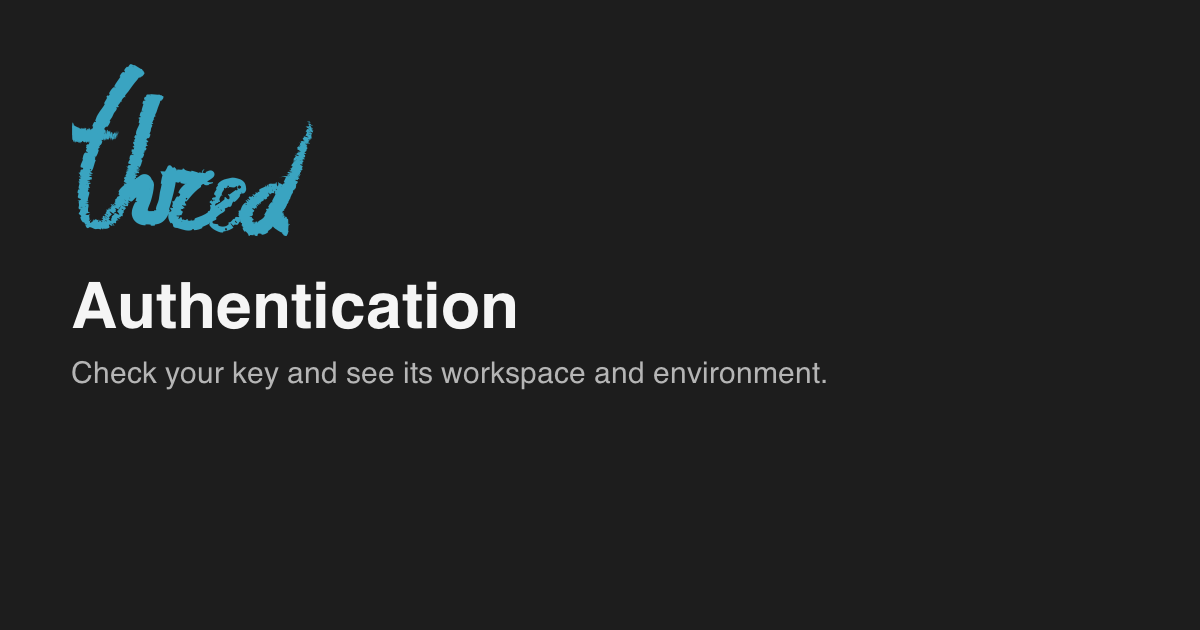
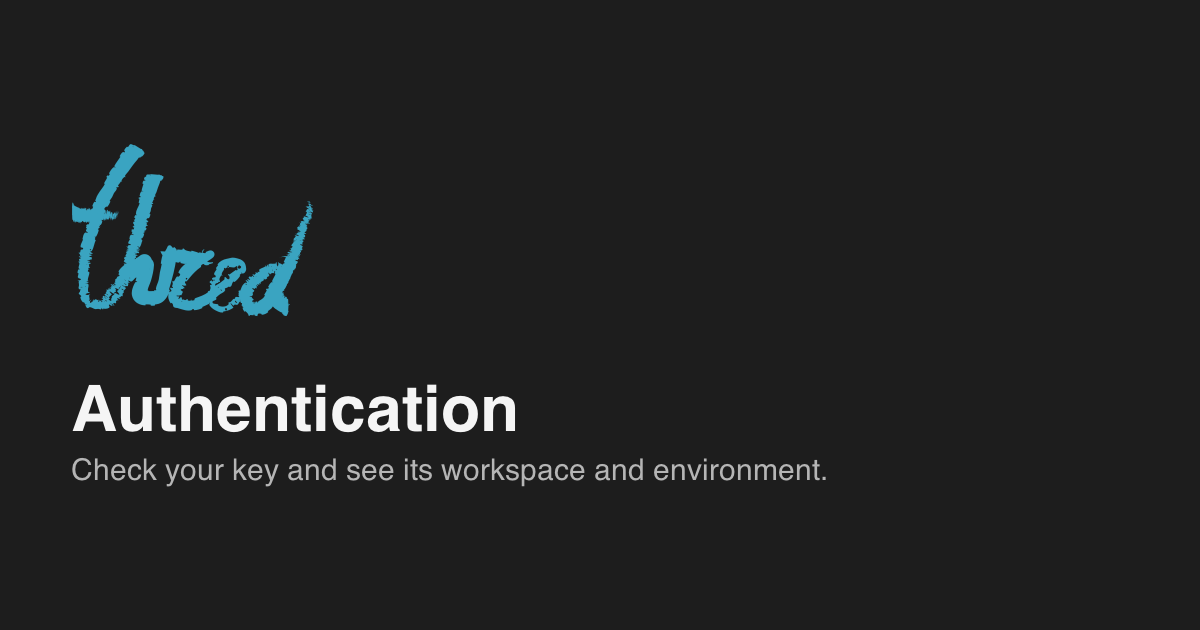
Center social preview content and improve spacing

diff --git a/README.md b/README.md
@@ -57,6 +57,8 @@ Use `thred-phone-data/tailwind.config.ts`, `src/app/globals.css`, `PowerWorkspac
 
 Social previews keep each page's title and description alongside a larger original Thred logo, without a category label. `scripts/generate-og.cjs` renders 1200×630 cards in `images/og/` using Instrument Sans and the dashboard's dark background, then sets each navigable page's `og:image` frontmatter. Twitter inherits that image. Run `npm ci` once and `npm run og:generate` after editing titles, descriptions, API descriptions, navigation, or the logo. The font and its SIL Open Font License are in `scripts/assets/`.
 
+Center each card's content vertically using its rendered height. Keep 64px between the logo and title and 24px between the title and description, preserving the shared left alignment.
+
 Maple provides the full-height sidebar with the logo, search, and navigation inside it. Keep its native layout and a consistent 48px content inset; do not add the sidebar width to content padding. Style the active page through `aria-current="page"`. Check introduction, quickstart, and an endpoint page in both themes and at narrow widths after styling changes, including the hosted layout: the CLI preview can lag behind Mintlify's current renderer.
 
 On desktop, the native theme switcher sits above Website at the bottom of the sidebar. Dashboard is hidden from navigation for now. Keep one divider below the switcher, separating it from Website, and no divider above it. Reserve its space in the sidebar footer; keep Mintlify's native mobile placement.
